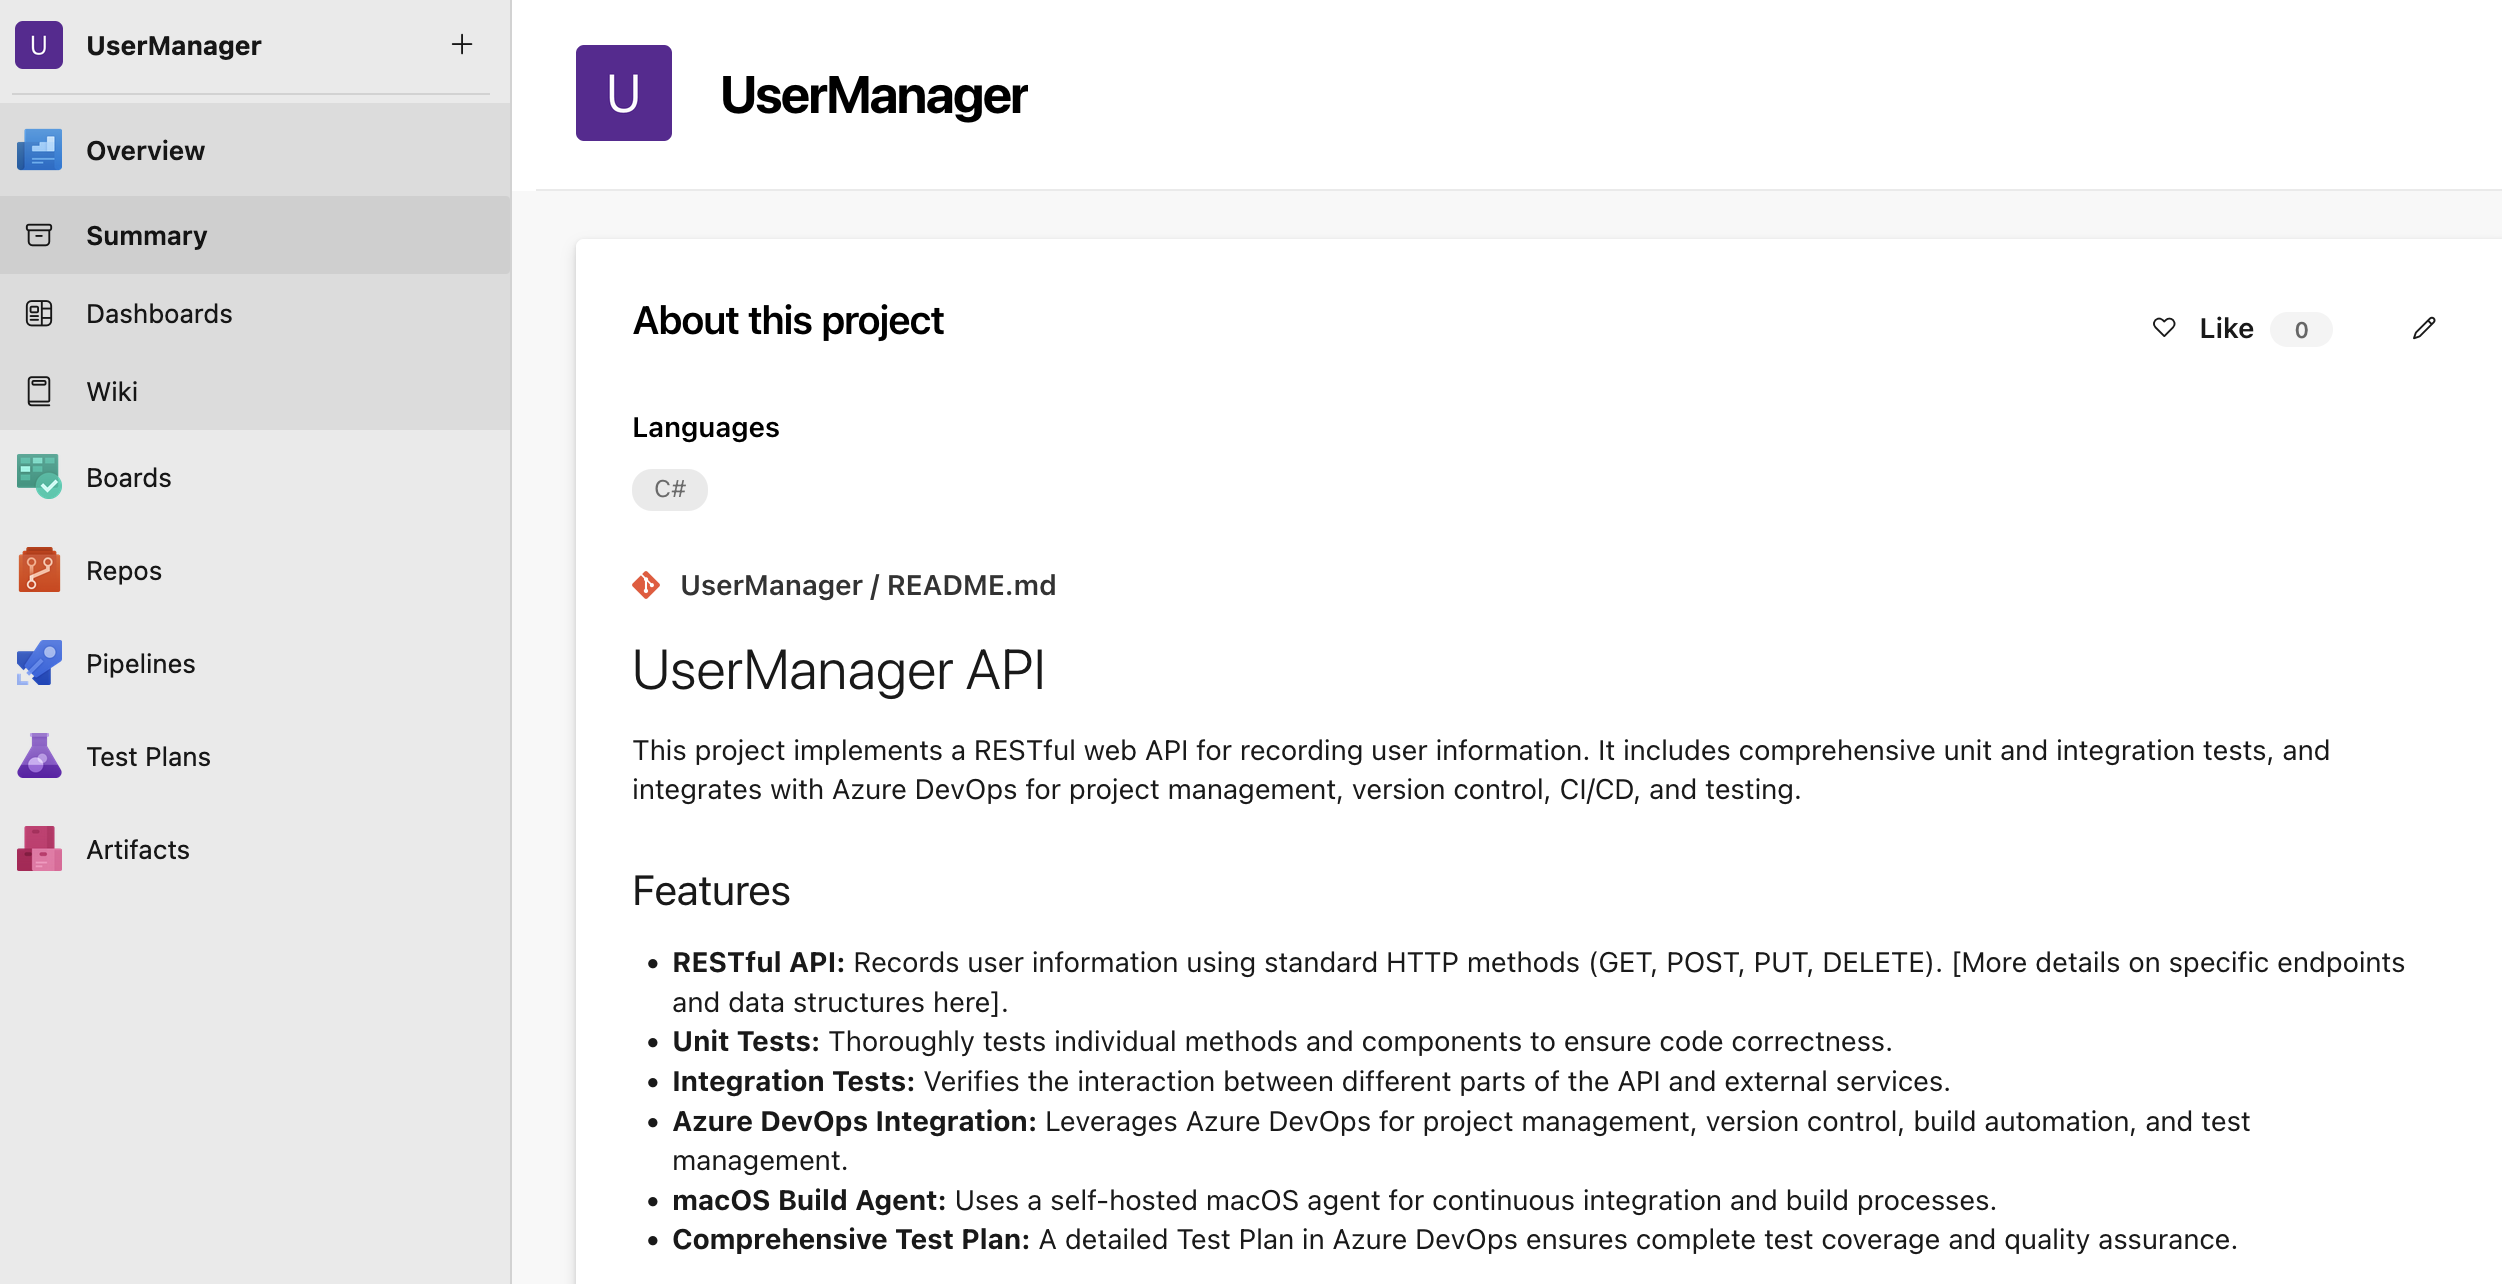
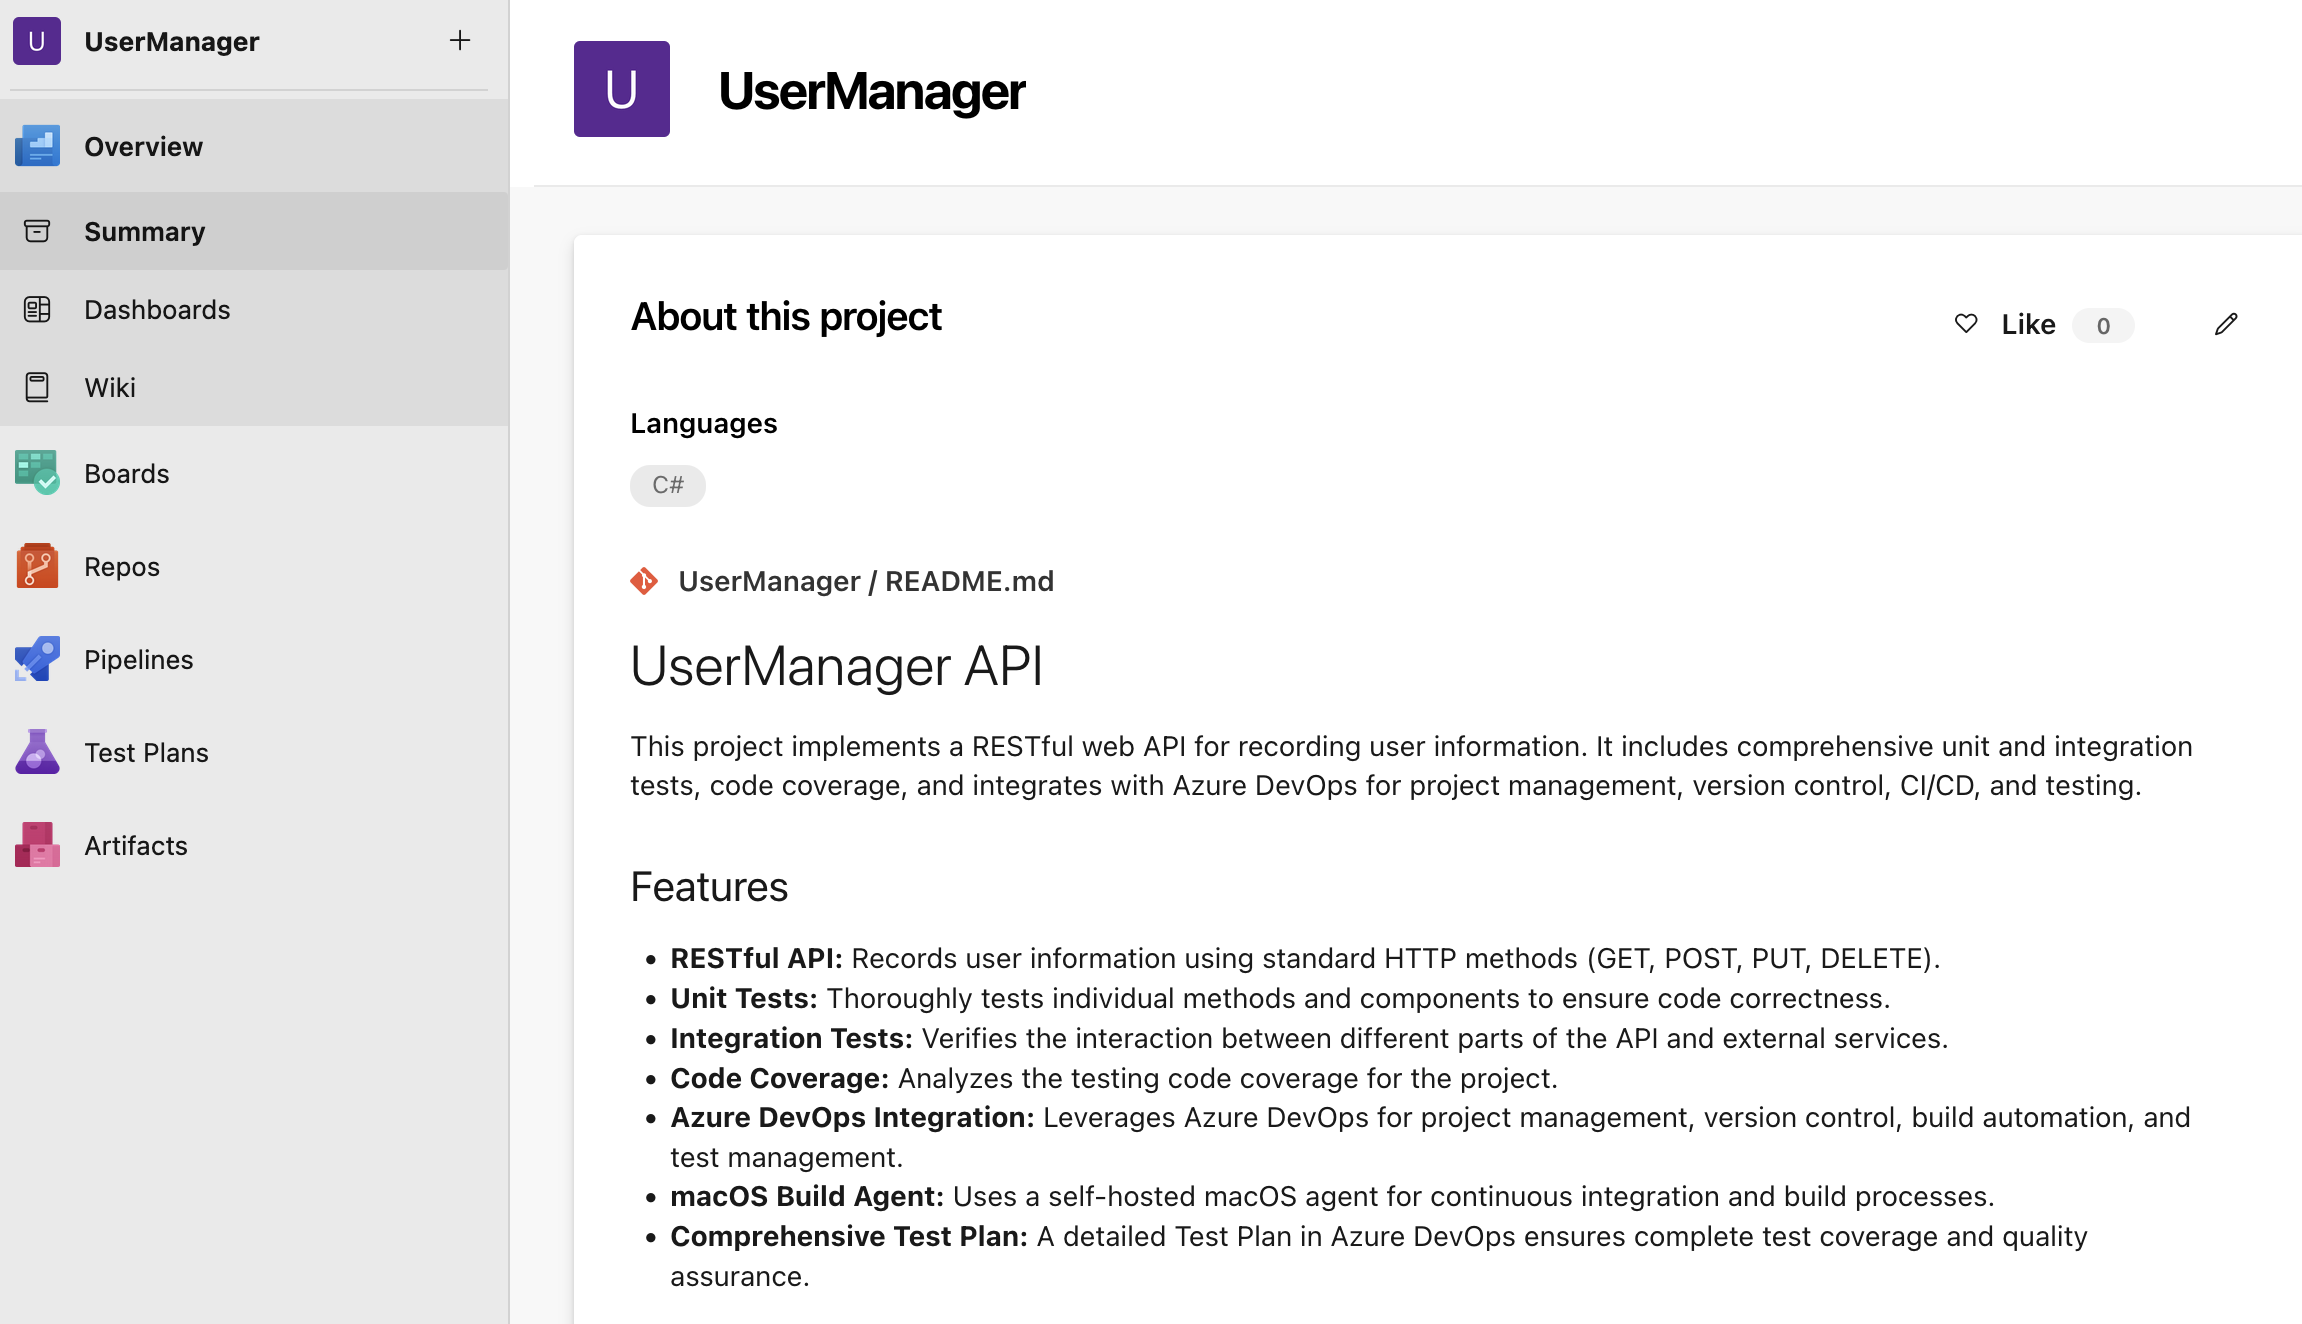
Updated resume, skillsPage, and images for the UserManager project.

diff --git a/src/components/Projects/UserManager.tsx b/src/components/Projects/UserManager.tsx
@@ -24,38 +24,47 @@ const ChildrenBefore = () => {
                                                  <div>
 
                                                  <h3>Features</h3>
-                                                 <ul>
-                                                 <li>
-                                                 <strong>RESTful API:</strong> Records user information using standard HTTP methods (GET,
-                                                 POST, PUT, DELETE).{' '}
-        </li>
-    <li>
-        <strong>Unit Tests:</strong> Thoroughly tests individual methods and components to ensure
-        code correctness.
-    </li>
-    <li>
-        <strong>Integration Tests:</strong> Verifies the interaction between different parts of
-        the API and external services.
-    </li>
-    <li>
-        <strong>Azure DevOps Integration:</strong> Leverages Azure DevOps for project management,
-        version control, build automation, and test management.
-    </li>
-    <li>
-        <strong>macOS Build Agent:</strong> Uses a self-hosted macOS agent for continuous
-        integration and build processes.
-    </li>
-    <li>
-        <strong>Comprehensive Test Plan:</strong> A detailed Test Plan in Azure DevOps ensures
-        complete test coverage and quality assurance.
-    </li>
-</ul>
+                                                     <ul>
+                                                         <li>
+                                                             <strong>RESTful API:</strong> Records user information
+                                                             using standard HTTP methods (GET,
+                                                             POST, PUT, DELETE).{' '}
+                                                         </li>
+                                                         <li>
+                                                             <strong>Unit Tests:</strong> Thoroughly tests individual
+                                                             methods and components to ensure
+                                                             code correctness.
+                                                         </li>
+                                                         <li>
+                                                             <strong>Integration Tests:</strong> Verifies the
+                                                             interaction between different parts of
+                                                             the API and external services.
+                                                         </li>
+                                                         <li>
+                                                             <strong>Code Coverage:</strong> Analyzes the testing code coverage for the project.
+                                                         </li>
+                                                         <li>
+                                                             <strong>Azure DevOps Integration:</strong> Leverages Azure
+                                                             DevOps for project management,
+                                                             version control, build automation, and test management.
+                                                         </li>
+                                                         <li>
+                                                             <strong>macOS Build Agent:</strong> Uses a self-hosted
+                                                             macOS agent for continuous
+                                                             integration and build processes.
+                                                         </li>
+                                                         <li>
+                                                             <strong>Comprehensive Test Plan:</strong> A detailed Test
+                                                             Plan in Azure DevOps ensures
+                                                             complete test coverage and quality assurance.
+                                                         </li>
+                                                     </ul>
 
-    <h3>Azure DevOps Integration</h3>
-    <p>This project utilizes several Azure DevOps services:</p>
-    <ul>
-        <li>
-            <strong>Boards:</strong> For managing project tasks, user stories, and sprint planning.
+                                                     <h3>Azure DevOps Integration</h3>
+                                                     <p>This project utilizes several Azure DevOps services:</p>
+                                                     <ul>
+                                                         <li>
+                                                             <strong>Boards:</strong> For managing project tasks, user stories, and sprint planning.
         </li>
         <li>
             <strong>Repos:</strong> Git repository for version control and collaboration.

diff --git a/src/pages/SkillsPage.tsx b/src/pages/SkillsPage.tsx
@@ -68,15 +68,7 @@ const SkillsPage = () => {
 
             <HelmetComponent title="Skills and Languages Page"/>
             <article>
-                <h2>Welcome to my Website!</h2>
-                <h5>
-                    Hi, my name is Joel Strong and I am a full stack software engineer and September 2024 Computer
-                    Science graduate from Oregon State
-                    University. In addition to maintaining a 3.98 GPA in my Computer Science program, I spent hundreds
-                    of hours outside of class learning the languages, skills, and certifications needed to build
-                    beautiful and functional full stack web applications. Check out my Portfolio page to see examples
-                    of my websites and projects!
-                </h5>
+                <h2>Skills and Proficiencies</h2>
 
                 <h5>This is a list of skills that I have learned with the expressed interest in building
                     applications with them. I am a life-long learner and interested in adding new skills that help me

diff --git a/src/components/SkillsCard.tsx b/src/components/SkillsCard.tsx
@@ -40,13 +40,8 @@ const SkillsCard: React.FC<SkillsCardProps> = ({ title, image, description, prof
                         value={proficiency}
                         disabled
                     />
-                    <p style={{color: '#4e6b97', fontWeight: '700', marginBottom: '5px', textAlign: 'center'}}>{
-                        certificateCountString && projectCountString
-                            ? <>
-                                {certificateCountString} & <br/> {projectCountString}
-                            </>
-                            : certificateCountString || projectCountString
-                    }</p>
+                    <p style={{color: '#4e6b97', fontWeight: '700', marginBottom: '5px', textAlign: 'center'}}>
+                        {certificateCountString}</p>
                     {description && <p><strong>Experience: </strong>{description}</p>}
                 </div>
                 : null}

diff --git a/src/data/skillsData.ts b/src/data/skillsData.ts
@@ -137,9 +137,9 @@ const skillsData: ISkillDataList = {
                     proficiency: ProficiencyEnum.Intermediate,
                 },
                 {
-                    title: "Azure",
+                    title: "Azure Services",
                     image: "/logos/azure.png",
-                    description: "Configuring and deploying web applications using Azure offerings. Currently learning via courses on Coursera and Microsoft Learn.",
+                    description: "Currently learning to deploy solutions using Azure Services and utilizing Azure DevOps Boards, Repos, Pipelines, Test Plans and Artifacts for project management.",
                     skill: SkillsEnum.Azure,
                     proficiency: ProficiencyEnum.Basic,
                 },

diff --git a/src/data/imageData.ts b/src/data/imageData.ts
@@ -20,6 +20,10 @@ const imageData: IImageData[] = [
         description: 'Unit and Integration CI build tests in Azure DevOps',
         project: ProjectEnum.UserManager,
     }, {
+        src: 'images/UM/codeCoverage.png',
+        description: 'Code Coverage integration in Azure DevOps',
+        project: ProjectEnum.UserManager,
+    }, {
         src: 'images/UM/openApi.png',
         description: 'Swagger/Swashbuckle integration for Open API documentation.',
         project: ProjectEnum.UserManager,

diff --git a/src/data/certificateData.ts b/src/data/certificateData.ts
@@ -1,5 +1,5 @@
 import SkillsEnum from "../enums/SkillEnum";
-import {ICertificationCategory} from "@/interfaces/ICertificate";
+import {ICertificationCategory} from "../interfaces/ICertificate";
 
 const certificateData: ICertificationCategory[] = [
     {
